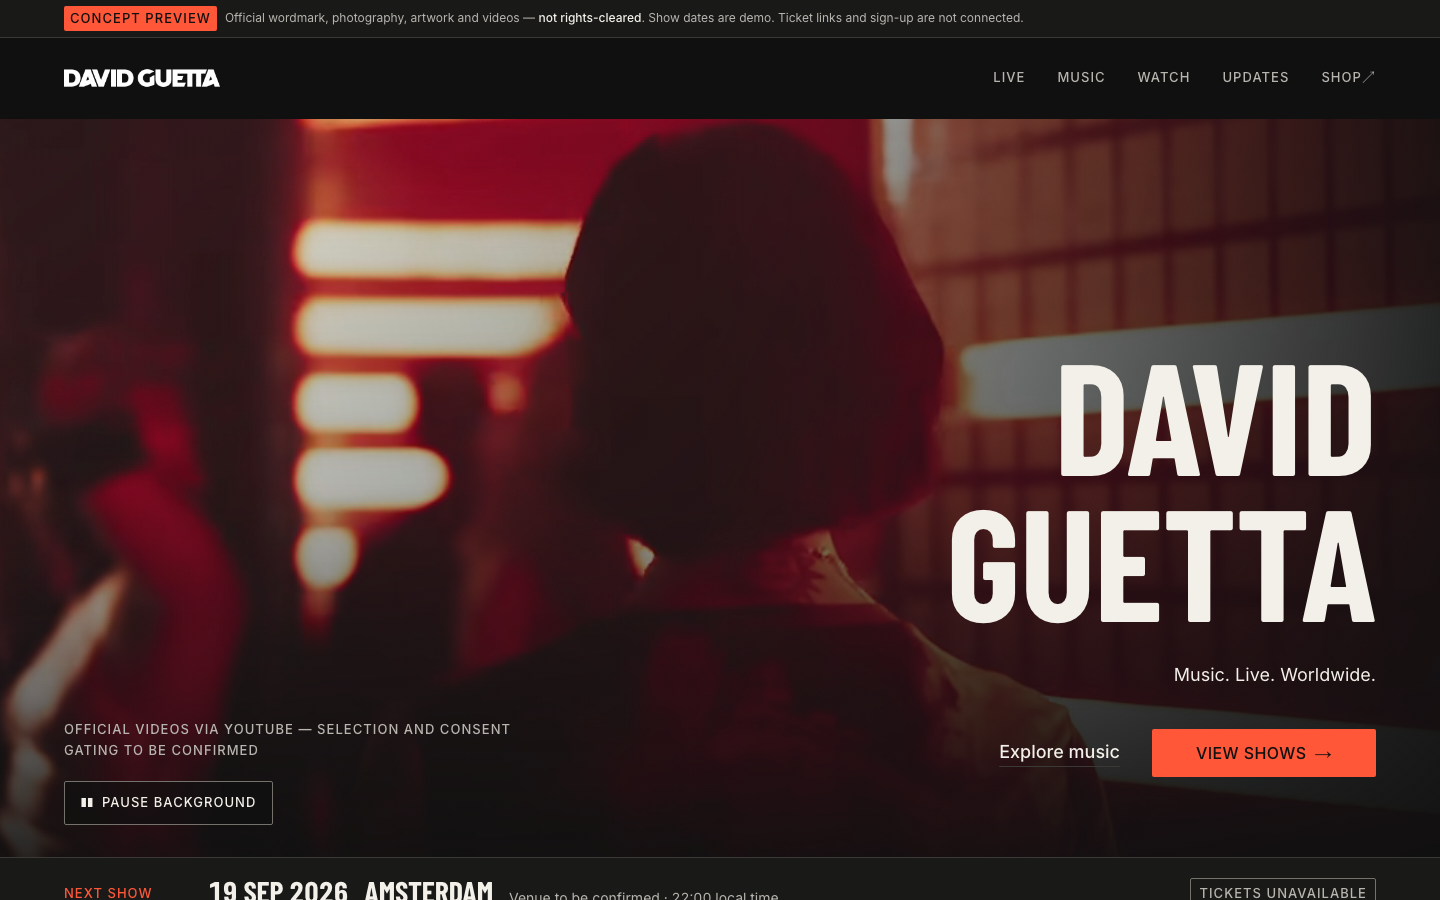
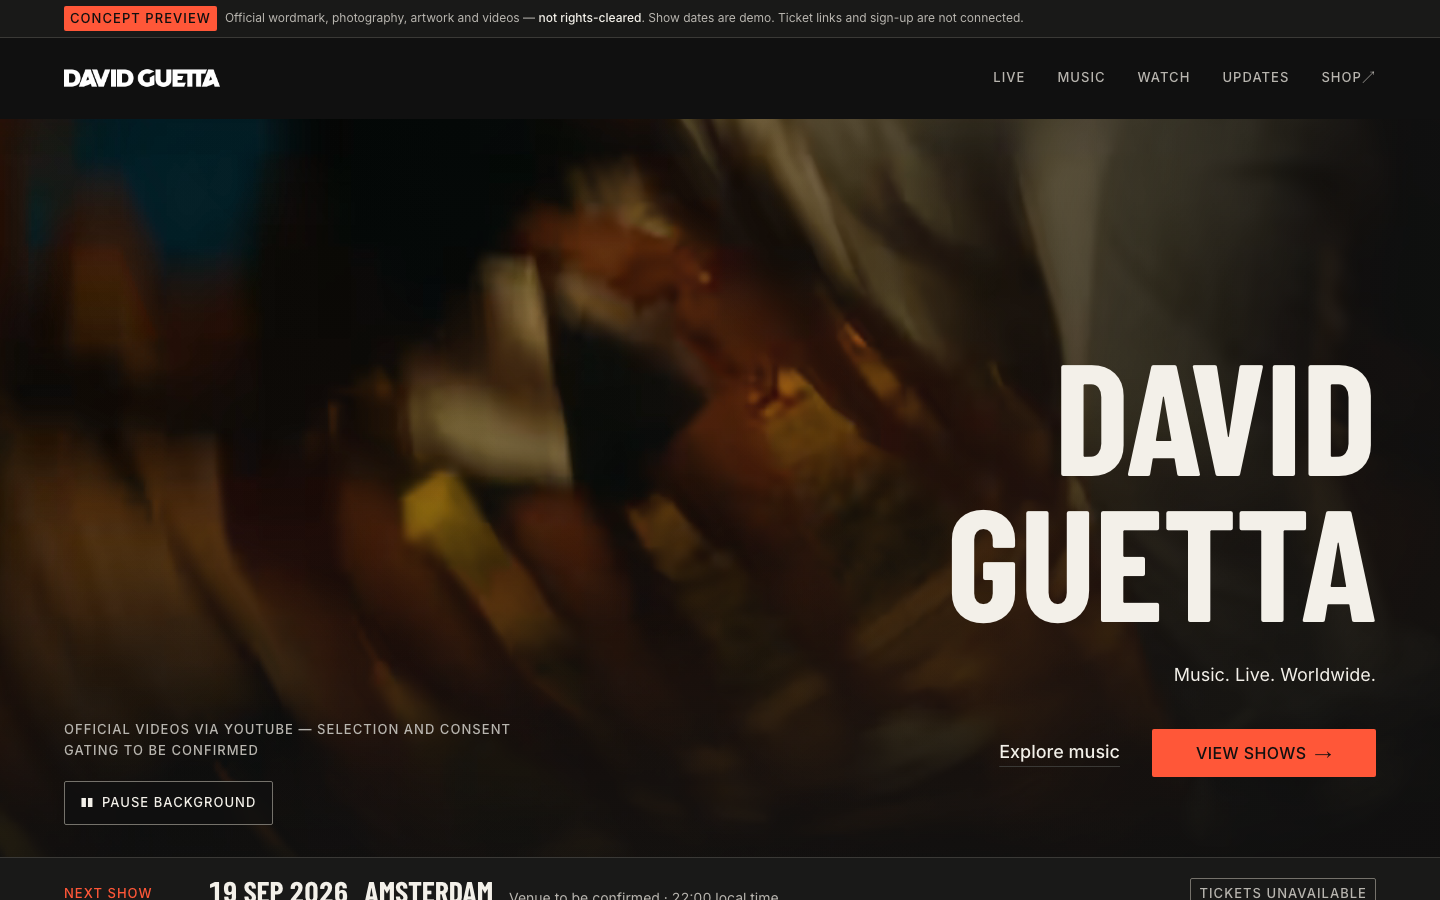
fix: stop YouTube showing its player controls over the hero
The prev/play/next cluster was YouTube's playlist overlay. It appeared at the
start of every clip, so it kept coming back on each transition, and controls=0
does not suppress it.

Two changes:

- Dropped `loop` and `playlist` from the embed URL. Either one makes the player
  treat the clip as a playlist and show that overlay. Neither is needed, since
  clips are swapped well before any of them ends.
- The montage is now cycled by the layer rather than by YouTube: one clip
  mounted at a time, advanced on an interval. A freshly mounted clip is held
  transparent until the player has settled — 4.2s on the first, cold mount and
  2.6s after — so the brief start-up overlay is never visible. The still
  underneath is what shows in the meantime.

Clips also start 48s in, which clears the black opening and the video's own
title card; otherwise someone else's typography competes with the hero
headline. clipSeconds and startSeconds are on the campaign, so the montage can
be retimed without touching code.

Verified by capturing a filmstrip across a clip transition: no player chrome in
any frame. Two new tests cover it — a clip is transparent until settled, and
the montage advances on its own — plus the URL assertions now require that
loop and playlist are absent.

Tests: 47 unit, 73 Playwright.

diff --git a/src/components/media/HeroVideoLayer.tsx b/src/components/media/HeroVideoLayer.tsx
@@ -15,7 +15,7 @@ import type { Campaign } from "@/lib/content/types";
  *  - Nothing is requested until AFTER the load event. The hero never competes
  *    with the content a visitor came for.
  *  - Skipped entirely under reduced motion, under Save-Data, and on phones.
- *  - Muted, always. The hosted loop has no audio track at all.
+ *  - Muted, always. The self-hosted loop has no audio track at all.
  *  - A real, labelled pause control — not a hidden gesture.
  *  - Playback stops when the hero scrolls out of view, and does not resume if
  *    the visitor paused it deliberately.
@@ -24,15 +24,28 @@ import type { Campaign } from "@/lib/content/types";
  * which is the only reliable way to stop a third-party player without pulling
  * in their API script.
  */
+// How long a freshly mounted clip stays transparent. The player shows a
+// start-up overlay for a beat; the first mount on a cold page is slower than
+// later ones, so it gets longer.
+const SETTLE_MS = 2600;
+const FIRST_SETTLE_MS = 4200;
+
 export function HeroVideoLayer({ campaign }: { campaign: Campaign }) {
   const [allowed, setAllowed] = useState(false);
-  const [ready, setReady] = useState(false);
+  const [fileReady, setFileReady] = useState(false);
   const [pausedByUser, setPausedByUser] = useState(false);
   const [onScreen, setOnScreen] = useState(true);
+  const [clip, setClip] = useState(0);
+  // The clip that has settled enough to be shown. Kept separate from `clip` so
+  // a change of clip hides the frame until this catches up.
+  const [settledClip, setSettledClip] = useState(-1);
+
   const videoRef = useRef<HTMLVideoElement>(null);
   const frameRef = useRef<HTMLDivElement>(null);
 
   const video = campaign.video;
+  const isEmbed = video?.kind === "youtube";
+  const playing = allowed && !pausedByUser && onScreen;
 
   useEffect(() => {
     if (!video) return undefined;
@@ -70,15 +83,49 @@ export function HeroVideoLayer({ campaign }: { campaign: Campaign }) {
   useEffect(() => {
     const element = videoRef.current;
     if (!element) return;
-    if (!onScreen || pausedByUser) element.pause();
+    if (!playing) element.pause();
     else void element.play().catch(() => undefined);
-  }, [onScreen, pausedByUser]);
+  }, [playing]);
+
+  /**
+   * Advance the montage ourselves.
+   *
+   * Handing YouTube a multi-video playlist was simpler, but it flashes its own
+   * prev / play / next overlay at the start of every clip and `controls=0` does
+   * not suppress that. Mounting one clip at a time, each as a single-video
+   * loop, avoids the playlist chrome entirely.
+   */
+  useEffect(() => {
+    if (!isEmbed || !playing || !video || video.kind !== "youtube") return undefined;
+    const timer = window.setInterval(
+      () => setClip((index) => (index + 1) % video.ids.length),
+      video.clipSeconds * 1000,
+    );
+    return () => window.clearInterval(timer);
+  }, [isEmbed, playing, video]);
+
+  /**
+   * Reveal a clip only once the player has had time to start and drop the brief
+   * overlay it shows on load. Until then `settledClip` lags `clip` and the
+   * frame stays transparent, so the still underneath is what a visitor sees.
+   */
+  useEffect(() => {
+    if (!isEmbed || !playing) return undefined;
+    const timer = window.setTimeout(
+      () => setSettledClip(clip),
+      settledClip === -1 ? FIRST_SETTLE_MS : SETTLE_MS,
+    );
+    return () => window.clearTimeout(timer);
+    // `settledClip` is read but deliberately not a dependency: re-running this
+    // on its own change would restart the timer it just satisfied.
+    // eslint-disable-next-line react-hooks/exhaustive-deps
+  }, [isEmbed, playing, clip]);
 
   const toggle = useCallback(() => setPausedByUser((paused) => !paused), []);
 
   if (!video) return null;
 
-  const playing = allowed && !pausedByUser && onScreen;
+  const embedVisible = settledClip === clip;
 
   return (
     <div ref={frameRef} className="absolute inset-0">
@@ -86,7 +133,7 @@ export function HeroVideoLayer({ campaign }: { campaign: Campaign }) {
         <video
           ref={videoRef}
           className={`absolute inset-0 hidden h-full w-full object-cover transition-opacity duration-700 lg:block ${
-            ready ? "opacity-100" : "opacity-0"
+            fileReady ? "opacity-100" : "opacity-0"
           }`}
           // No poster attribute on purpose: the art-directed still is already
           // painted underneath, and the video only fades in once it can play.
@@ -98,10 +145,10 @@ export function HeroVideoLayer({ campaign }: { campaign: Campaign }) {
           preload="none"
           aria-hidden="true"
           tabIndex={-1}
-          onCanPlay={() => setReady(true)}
+          onCanPlay={() => setFileReady(true)}
           onError={() => {
             setAllowed(false);
-            setReady(false);
+            setFileReady(false);
           }}
         >
           {video.sources.map((source) => (
@@ -118,18 +165,18 @@ export function HeroVideoLayer({ campaign }: { campaign: Campaign }) {
           aria-hidden="true"
         >
           <iframe
+            key={video.ids[clip]}
             title=""
             aria-hidden="true"
             tabIndex={-1}
-            onLoad={() => setReady(true)}
             // Cover, in container units rather than viewport units: the hero is
             // 82svh, so vw/vh maths pillarboxes the player. The extra scale
             // pushes YouTube's own furniture — captions along the bottom, the
             // logo in the corner — outside the visible crop.
-            className={`absolute left-1/2 top-1/2 h-[56.25cqw] max-h-none w-[100cqw] min-w-[177.78cqh] -translate-x-1/2 -translate-y-1/2 scale-[1.28] transition-opacity duration-700 ${
-              ready ? "opacity-100" : "opacity-0"
+            className={`absolute left-1/2 top-1/2 h-[56.25cqw] min-h-[100cqh] w-[100cqw] min-w-[177.78cqh] -translate-x-1/2 -translate-y-1/2 scale-[1.28] transition-opacity duration-700 ${
+              embedVisible ? "opacity-100" : "opacity-0"
             }`}
-            src={youtubeBackgroundUrl(video.ids)}
+            src={youtubeBackgroundUrl(video.ids[clip], video.startSeconds)}
             allow="autoplay; encrypted-media"
             referrerPolicy="strict-origin-when-cross-origin"
             frameBorder="0"
@@ -154,20 +201,21 @@ export function HeroVideoLayer({ campaign }: { campaign: Campaign }) {
 }
 
 /**
- * Background-embed parameters.
+ * Background-embed parameters for ONE clip.
  *
- * `youtube-nocookie.com` defers YouTube's tracking cookies until playback, and
- * `loop` needs an explicit `playlist` — with several ids that same parameter is
- * what turns the hero into a montage, played by YouTube rather than cut by us.
+ * `youtube-nocookie.com` defers YouTube's tracking cookies until playback.
+ *
+ * Note what is NOT here: `loop` and `playlist`. Either of them makes the player
+ * treat this as a playlist and show its own prev / play / next overlay when a
+ * clip starts, which `controls=0` does not suppress. We swap clips well before
+ * any of them ends, so neither parameter is needed.
  */
-function youtubeBackgroundUrl(ids: string[]): string {
-  const [first, ...rest] = ids;
+function youtubeBackgroundUrl(id: string, startSeconds: number): string {
   const params = new URLSearchParams({
     autoplay: "1",
     mute: "1",
     controls: "0",
-    loop: "1",
-    playlist: (rest.length > 0 ? rest : [first]).join(","),
+    start: String(startSeconds),
     playsinline: "1",
     rel: "0",
     disablekb: "1",
@@ -176,5 +224,5 @@ function youtubeBackgroundUrl(ids: string[]): string {
     cc_load_policy: "0",
     fs: "0",
   });
-  return `https://www.youtube-nocookie.com/embed/${first}?${params.toString()}`;
+  return `https://www.youtube-nocookie.com/embed/${id}?${params.toString()}`;
 }

diff --git a/tests/e2e/journeys.spec.ts b/tests/e2e/journeys.spec.ts
@@ -441,9 +441,13 @@ test.describe("hero video", () => {
     const src = (await frame.getAttribute("src"))!;
     expect(src).toContain("mute=1");
     expect(src).toContain("controls=0");
-    expect(src).toContain("loop=1");
-    // Several ids means YouTube plays the montage; we never cut the footage.
-    expect(new URL(src).searchParams.get("playlist")!.split(",").length).toBeGreaterThan(1);
+    expect(src).toContain("cc_load_policy=0");
+    // No loop and no playlist: either makes the player show its own
+    // prev/play/next overlay when a clip starts, and controls=0 does not
+    // suppress that. The montage is cycled by us instead, one clip at a time.
+    const params = new URL(src).searchParams;
+    expect(params.get("playlist")).toBeNull();
+    expect(params.get("loop")).toBeNull();
     // Scenery, not content: no keyboard trap, nothing announced.
     await expect(frame).toHaveAttribute("aria-hidden", "true");
     await expect(frame).toHaveAttribute("tabindex", "-1");
@@ -472,6 +476,33 @@ test.describe("hero video", () => {
     await expect(page.locator('iframe[src*="youtube"]')).toHaveCount(0);
     await page.getByRole("button", { name: /Play background/ }).click();
     await expect(page.locator('iframe[src*="youtube"]')).toHaveCount(1);
+  });
+
+  test("a clip is hidden until the player has settled, so its chrome is never seen", async ({ page }) => {
+    await page.setViewportSize({ width: 1440, height: 900 });
+    await page.goto("/");
+    await page.waitForLoadState("load");
+
+    const frame = page.locator('iframe[src*="youtube"]');
+    await frame.waitFor();
+    // Mounted but transparent while YouTube shows its start-up overlay.
+    await expect(frame).toHaveCSS("opacity", "0");
+    // ...and visible once it has settled.
+    await expect(frame).toHaveCSS("opacity", "1", { timeout: 9000 });
+  });
+
+  test("the montage advances to the next clip on its own", async ({ page }) => {
+    await page.setViewportSize({ width: 1440, height: 900 });
+    await page.goto("/");
+    await page.waitForLoadState("load");
+
+    const frame = page.locator('iframe[src*="youtube"]');
+    await frame.waitFor();
+    const first = (await frame.getAttribute("src"))!;
+    // clipSeconds is 20; allow for the settle delay on the next clip too.
+    await expect
+      .poll(async () => page.locator('iframe[src*="youtube"]').getAttribute("src"), { timeout: 30_000 })
+      .not.toBe(first);
   });
 
   test("scrolling away tears the embed down", async ({ page }) => {

diff --git a/src/content/campaign.ts b/src/content/campaign.ts
@@ -121,8 +121,10 @@ export const portraitCampaign: Campaign = {
  * `public/assets/hero/` and switch `video` to `kind: "file"` — the pipeline
  * already supports it and needs no code changes.
  *
- * The montage is assembled by YouTube, not by us: the first id is the embed and
- * the rest become its playlist, so the clips play in sequence and loop.
+ * The clips are cycled by us, one mounted at a time. Handing YouTube a playlist
+ * was simpler but made it flash its own prev/play/next overlay at the start of
+ * every clip; mounting each one separately lets the layer keep the frame hidden
+ * until the player has settled.
  *
  * Three things to settle before launch, all of them real:
  *
@@ -177,6 +179,10 @@ export const musicVideoCampaign: Campaign = {
       "k3DBmAlUh1A", // Baby Don't Hurt Me, with Anne-Marie and Coi Leray
       "8bzesUu_a4I", // Crazy What Love Can Do, with Becky Hill and Ella Henderson
     ],
+    clipSeconds: 20,
+    // Music videos open on black, then a title card. Starting well in skips
+    // both and lands on footage rather than someone else's typography.
+    startSeconds: 48,
     poster: "/assets/video/90RLzVUuXe4.jpg",
   },
   primaryAction: { label: "View shows", href: "/live" },

diff --git a/src/lib/content/types.ts b/src/lib/content/types.ts
@@ -101,11 +101,15 @@ export type Campaign = {
     | {
         kind: "youtube";
         /**
-         * Played in order and looped. The first id is the embed; the rest
-         * become its playlist, which is how a montage is assembled without
-         * cutting or re-encoding anything.
+         * Played in order and looped. Each is mounted on its own — see
+         * HeroVideoLayer for why we cycle these ourselves rather than handing
+         * YouTube a playlist.
          */
         ids: string[];
+        /** Seconds each clip stays on screen before the next one is mounted. */
+        clipSeconds: number;
+        /** Where to start each clip, to skip slow intros. */
+        startSeconds: number;
         /** Local still, so the hero is composed before any third party loads. */
         poster: string;
       }

diff --git a/docs/QA-REPORT.md b/docs/QA-REPORT.md
@@ -177,9 +177,16 @@ Route output from the production build:
   precondition for a usable hero.
 - **Nothing is requested on a 390 px viewport**: no video file, no third party.
 - **Nothing is requested under `prefers-reduced-motion: reduce`.**
-- On desktop the embed is muted, has controls suppressed, loops, and carries a
-  playlist of more than one clip — the montage is assembled by YouTube, never
-  by cutting the footage ourselves.
+- On desktop the embed is muted with controls, captions, keyboard and
+  fullscreen suppressed, and carries **neither `loop` nor `playlist`** — either
+  makes the player show its own prev/play/next overlay when a clip starts, and
+  `controls=0` does not suppress that. The montage is cycled by the layer
+  instead, one clip at a time.
+- A freshly mounted clip stays transparent until the player has settled (4.2 s
+  on the first, cold mount; 2.6 s after), so the start-up overlay is never
+  visible. The still underneath is what shows in the meantime.
+- The montage advances to the next clip on its own, verified by polling the
+  iframe's `src` across a transition.
 - The embed is served from `youtube-nocookie.com`, never `www.youtube.com`.
 - The frame is `aria-hidden` with `tabindex="-1"`: scenery, not content, and
   not a keyboard trap.

diff --git a/ASSET-MANIFEST.md b/ASSET-MANIFEST.md
@@ -57,6 +57,12 @@ The clips are a selection from the official channel playlist. They are **not**
 ranked by popularity: no view-count data was available, and a "most popular"
 claim is not something this build can support.
 
+Each clip starts 48 seconds in, which clears the black opening and the video's
+own title card — otherwise someone else's typography competes with the hero
+headline. Clips run for 20 seconds each before the next is mounted. Both are
+`clipSeconds` and `startSeconds` on the campaign, so the client can retime the
+montage without touching code.
+
 ### The generated loop is original, not lifted footage
 
 `tools/make-hero-loop.py` draws the loop from scratch — beams from a lighting
